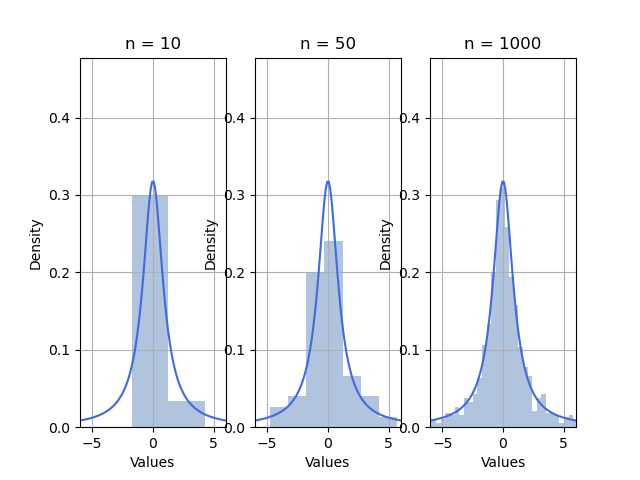
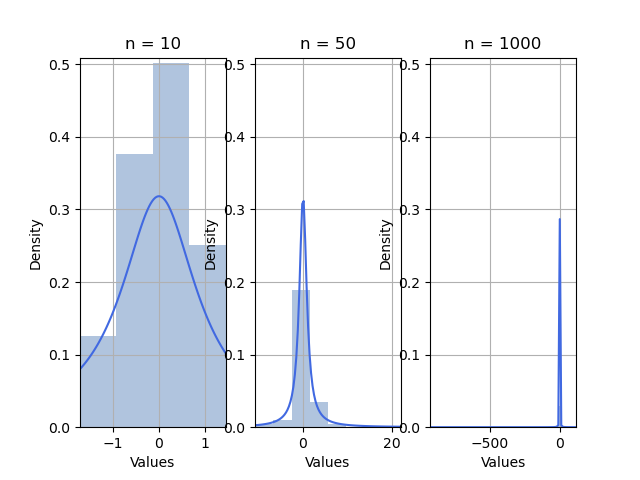
Fix cauchy distribution range in x axis

diff --git a/Lab1/cauchy.py b/Lab1/cauchy.py
@@ -16,19 +16,21 @@ np.random.seed(seed)
 
 # left and right borders was determined
 # experimentally, so TODO: add mutable l-r_borders
-l_border = -6
-r_border = 6
 b_border = 0
 t_border = 1.5 / (math.pi * hamma)
-
-# pdf plot points
-x_pdf = np.linspace(l_border, r_border, n_points)
-y_pdf = st.cauchy.pdf(x_pdf, loc=x0, scale=hamma)
 
 # generating plots TODO: Add tile using LaTeX
 plt.subplots(n_plots)
 
 for i in range(0, n_plots):
+    # generation values
+    values_rnd = st.cauchy.rvs(loc=x0, scale=hamma, size=sizes[i])
+
+    l_border = min(values_rnd)
+    r_border = max(values_rnd)
+    x_pdf = np.linspace(l_border, r_border, n_points)
+    y_pdf = st.cauchy.pdf(x_pdf, loc=x0, scale=hamma)
+
     n_bins = math.ceil(math.sqrt(sizes[i]))
     width = (r_border - l_border) / n_bins
     plt.subplot(1, n_plots, i+1)
@@ -41,7 +43,6 @@ for i in range(0, n_plots):
     plt.grid()
 
     plt.plot(x_pdf, y_pdf, color='royalblue')
-    values_rnd = st.cauchy.rvs(loc=x0, scale=hamma, size=sizes[i])
     bins_rnd = np.arange(min(values_rnd), max(values_rnd) + width, width)
     plt.hist(x=values_rnd, bins=bins_rnd, color='lightsteelblue', density=True)
 
